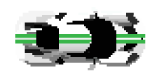
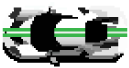
new images and score counter

diff --git a/road_rage_score_branch.py b/road_rage_score_branch.py
@@ -1,7 +1,20 @@
 import pygame
 import random
 
+
+
+white_color = (255, 255, 255)
+
+font_name = pygame.font.match_font('arial')
+def draw_text(surf, text, size, x, y):
+    font = pygame.font.Font(font_name, size)
+    text_surface = font.render(text, True, white_color)
+    text_rect = text_surface.get_rect()
+    text_rect.midtop = (x, y)
+    surf.blit(text_surface, text_rect)
+
 # Create Vehicle Class
+
 class Vehicle(pygame.sprite.Sprite):
     def __init__(self, image, x, y, speed):
         pygame.sprite.Sprite.__init__(self)
@@ -29,6 +42,22 @@ class Player(Vehicle):
             if key[self.move[2:4][i]]:
                 self.rect.y += self.vy * [-1, 1][i]
 
+class Arrow(Vehicle):
+    def motion(self):
+        self.move = [pygame.K_LEFT, pygame.K_RIGHT, pygame.K_UP, pygame.K_DOWN]
+        self.vx = 10
+        self.vy = 10
+
+        key = pygame.key.get_pressed()
+
+        for i in range(2):
+            if key[self.move[i]]:
+                self.rect.x += self.vx * [-1, 1][i]
+
+        for i in range(2):
+            if key[self.move[2:4][i]]:
+                self.rect.y += self.vy * [-1, 1][i]
+
 # define Comp class
 class Comp(Vehicle):
     def motion(self):
@@ -38,7 +67,7 @@ class Comp(Vehicle):
             self.kill()
 
 def main():
-    
+    score_count = 0
     # Initialize game window
     width = 1200
     height = 600
@@ -46,7 +75,7 @@ def main():
     pygame.init()
     screen = pygame.display.set_mode((width, height))
     pygame.display.set_caption('My Game')
-
+    white_color = (255, 255, 255)
     background_image = pygame.image.load('images/background_image.png').convert_alpha()
 
     # Game initialization
@@ -54,6 +83,7 @@ def main():
     
     # initialize player and add direction button controls
     player = Player('images/player_image.png', 40, 50, 0)
+    arrow = Arrow('images/arrow.png', -75, 50, 0)
     
     # Add event for creating new comp_vehicles
     ADDCOMP = pygame.USEREVENT + 1
@@ -63,10 +93,12 @@ def main():
     comps = pygame.sprite.Group()
     all_sprites = pygame.sprite.Group()
     all_sprites.add(player)
+    all_sprites.add(arrow)
 
     while not stop_game:
+        score_count += 1
+    
         for event in pygame.event.get():
-            
             # Event handling
             if event.type == pygame.QUIT:
                 stop_game = True
@@ -87,7 +119,7 @@ def main():
 
         # Game logic
         player.motion()
-
+        arrow.motion()
         for comp in comps:
             comp.motion()
 
@@ -101,16 +133,21 @@ def main():
         screen.fill(blue_color)
         screen.blit(background_image, [0, 0])
 
+        draw_text(screen, str(score_count), 50, width / 2, 10)
+
         # Draw player, enemy, and other vehicles
         player_group = pygame.sprite.Group()
         player_group.add(player)
+        player_group.add(arrow)
         player_group.draw(screen)
 
+        
+    
         comps.draw(screen)
 
         # Game display
         pygame.display.update()
-
+    
     pygame.quit()
 
 if __name__ == '__main__':

diff --git a/test.py b/test.py
@@ -1,0 +1,26 @@
+
+import time
+
+class MyTimer:
+    def __init__(self):
+        self.elapsed = 0.0
+        self.running = False
+        self.last_start_time = None
+
+    def start(self):
+        if not self.running:
+            self.running = True
+            self.last_start_time = time.time()
+
+    def pause(self):
+        if self.running:
+            self.running = False
+            self.elapsed += time.time() - self.last_start_time
+
+    def get_elapsed(self):
+        elapsed = self.elapsed
+        if self.running:
+            elapsed += time.time() - self.last_start_time
+        return elapsed
+
+get_elapsed(self)
